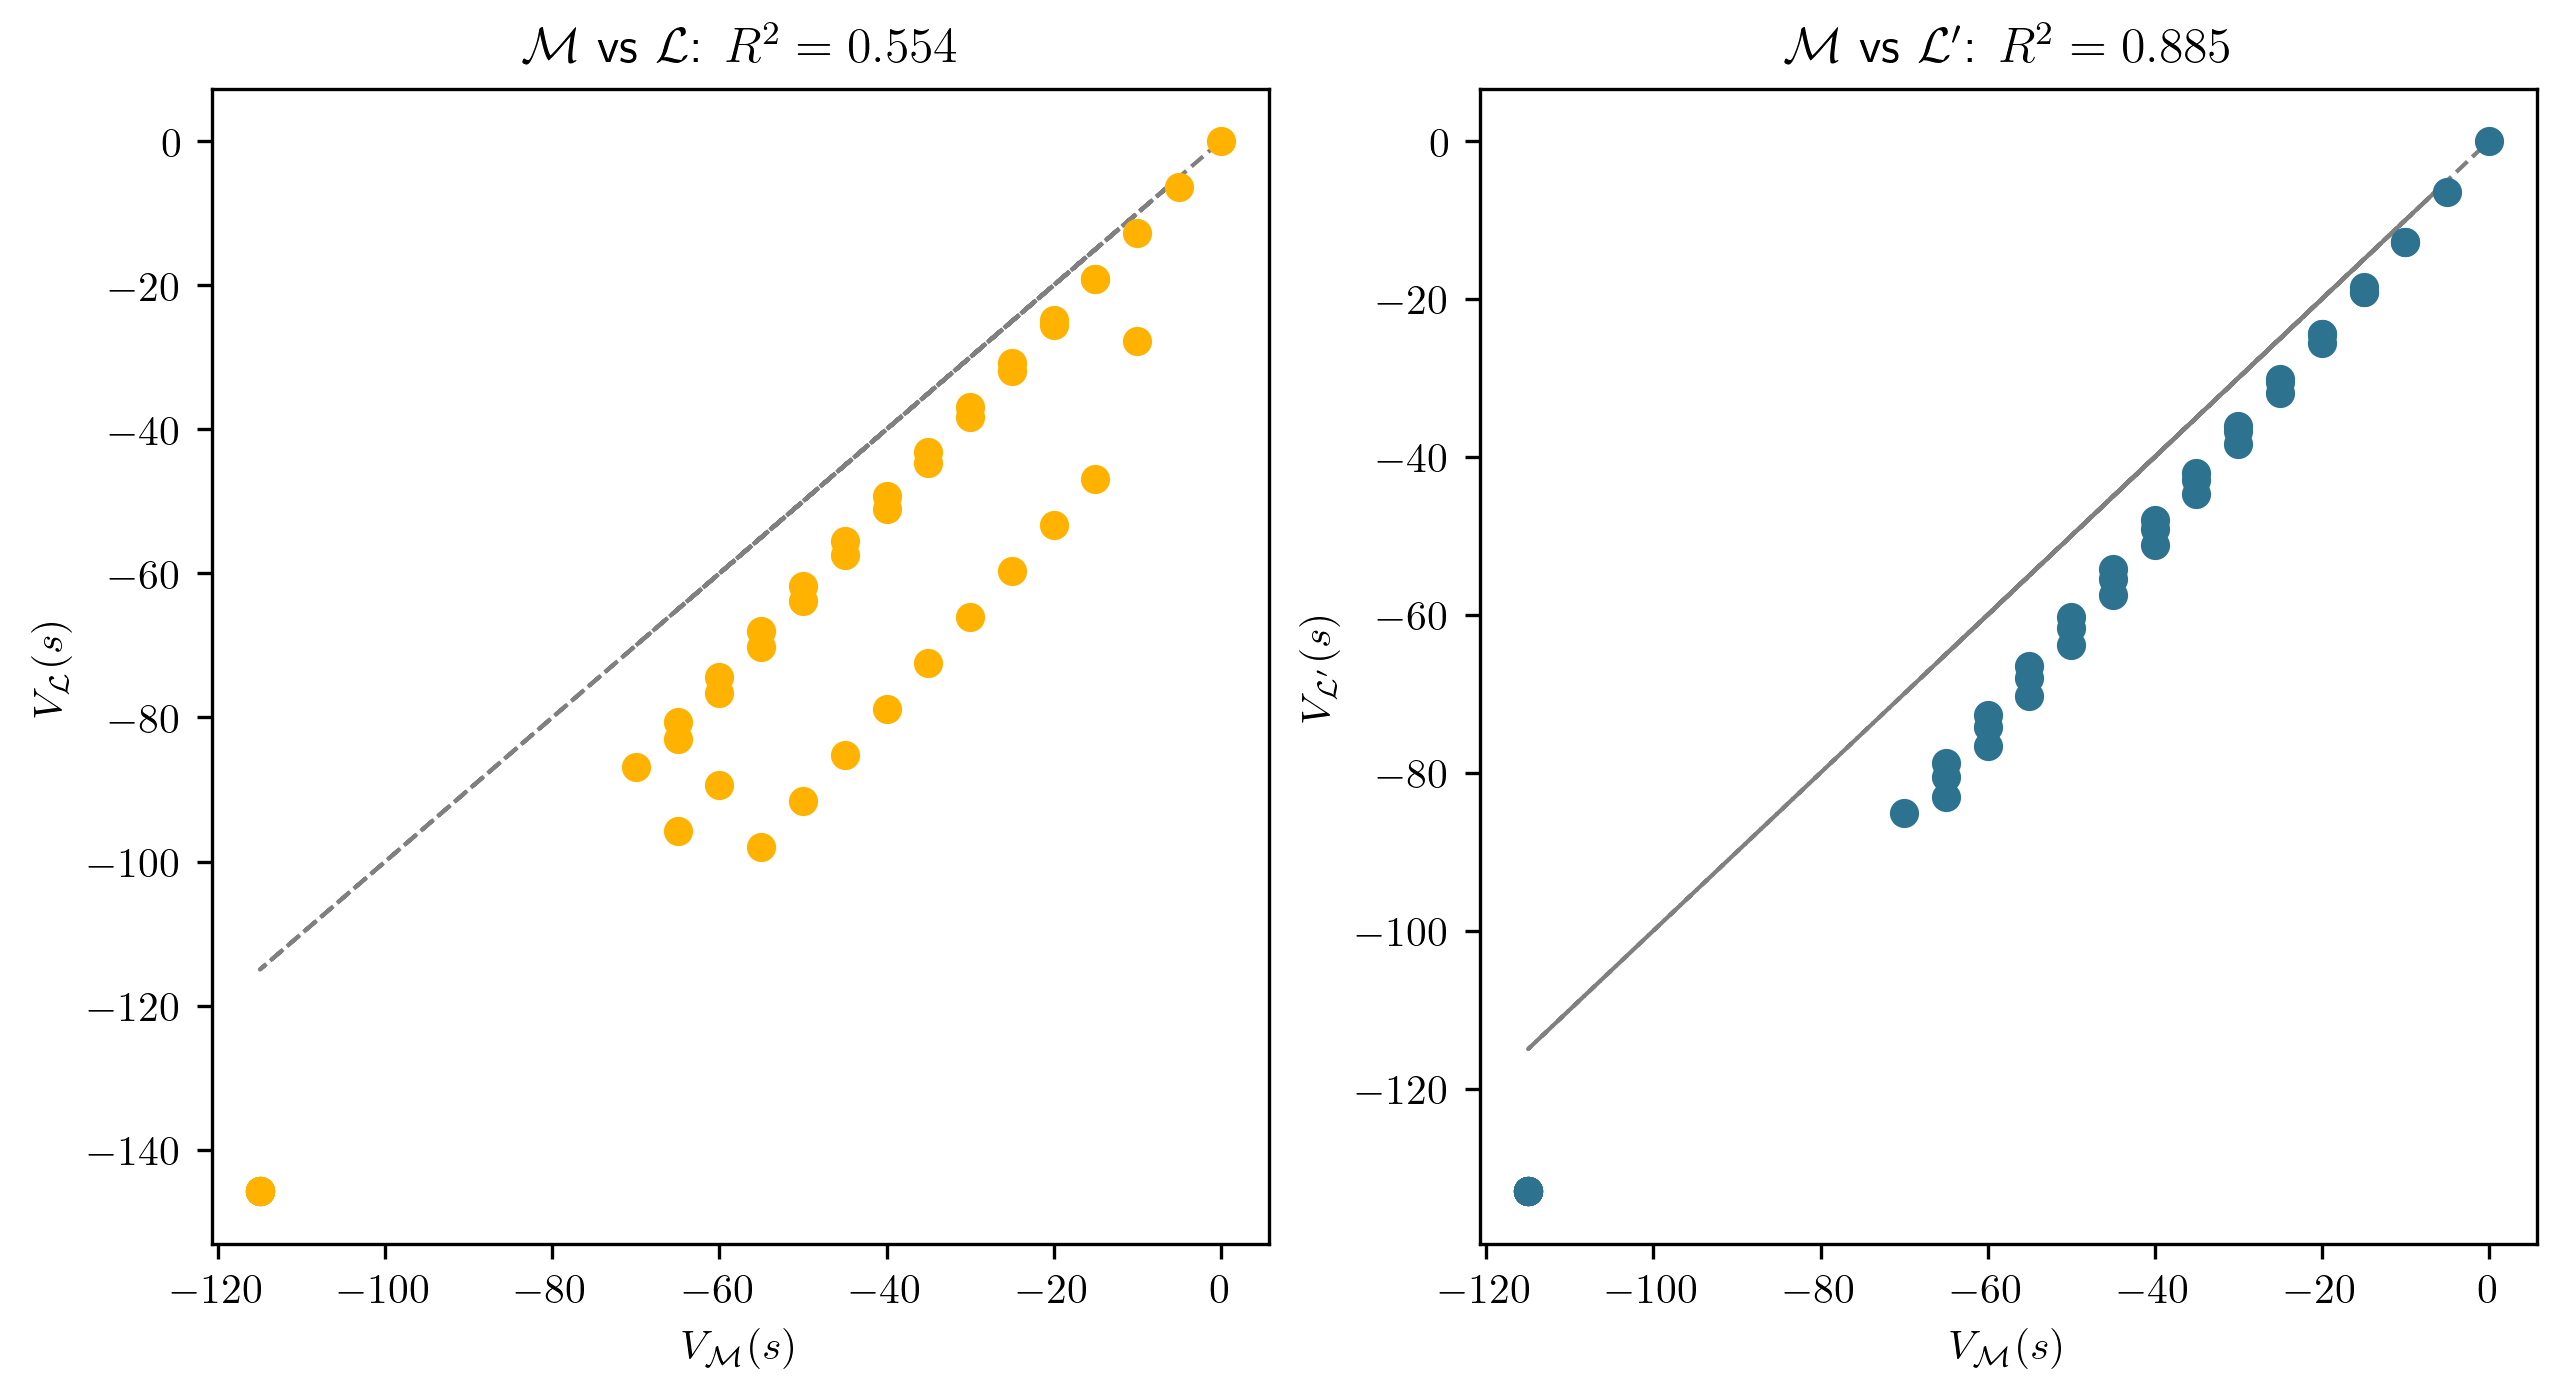
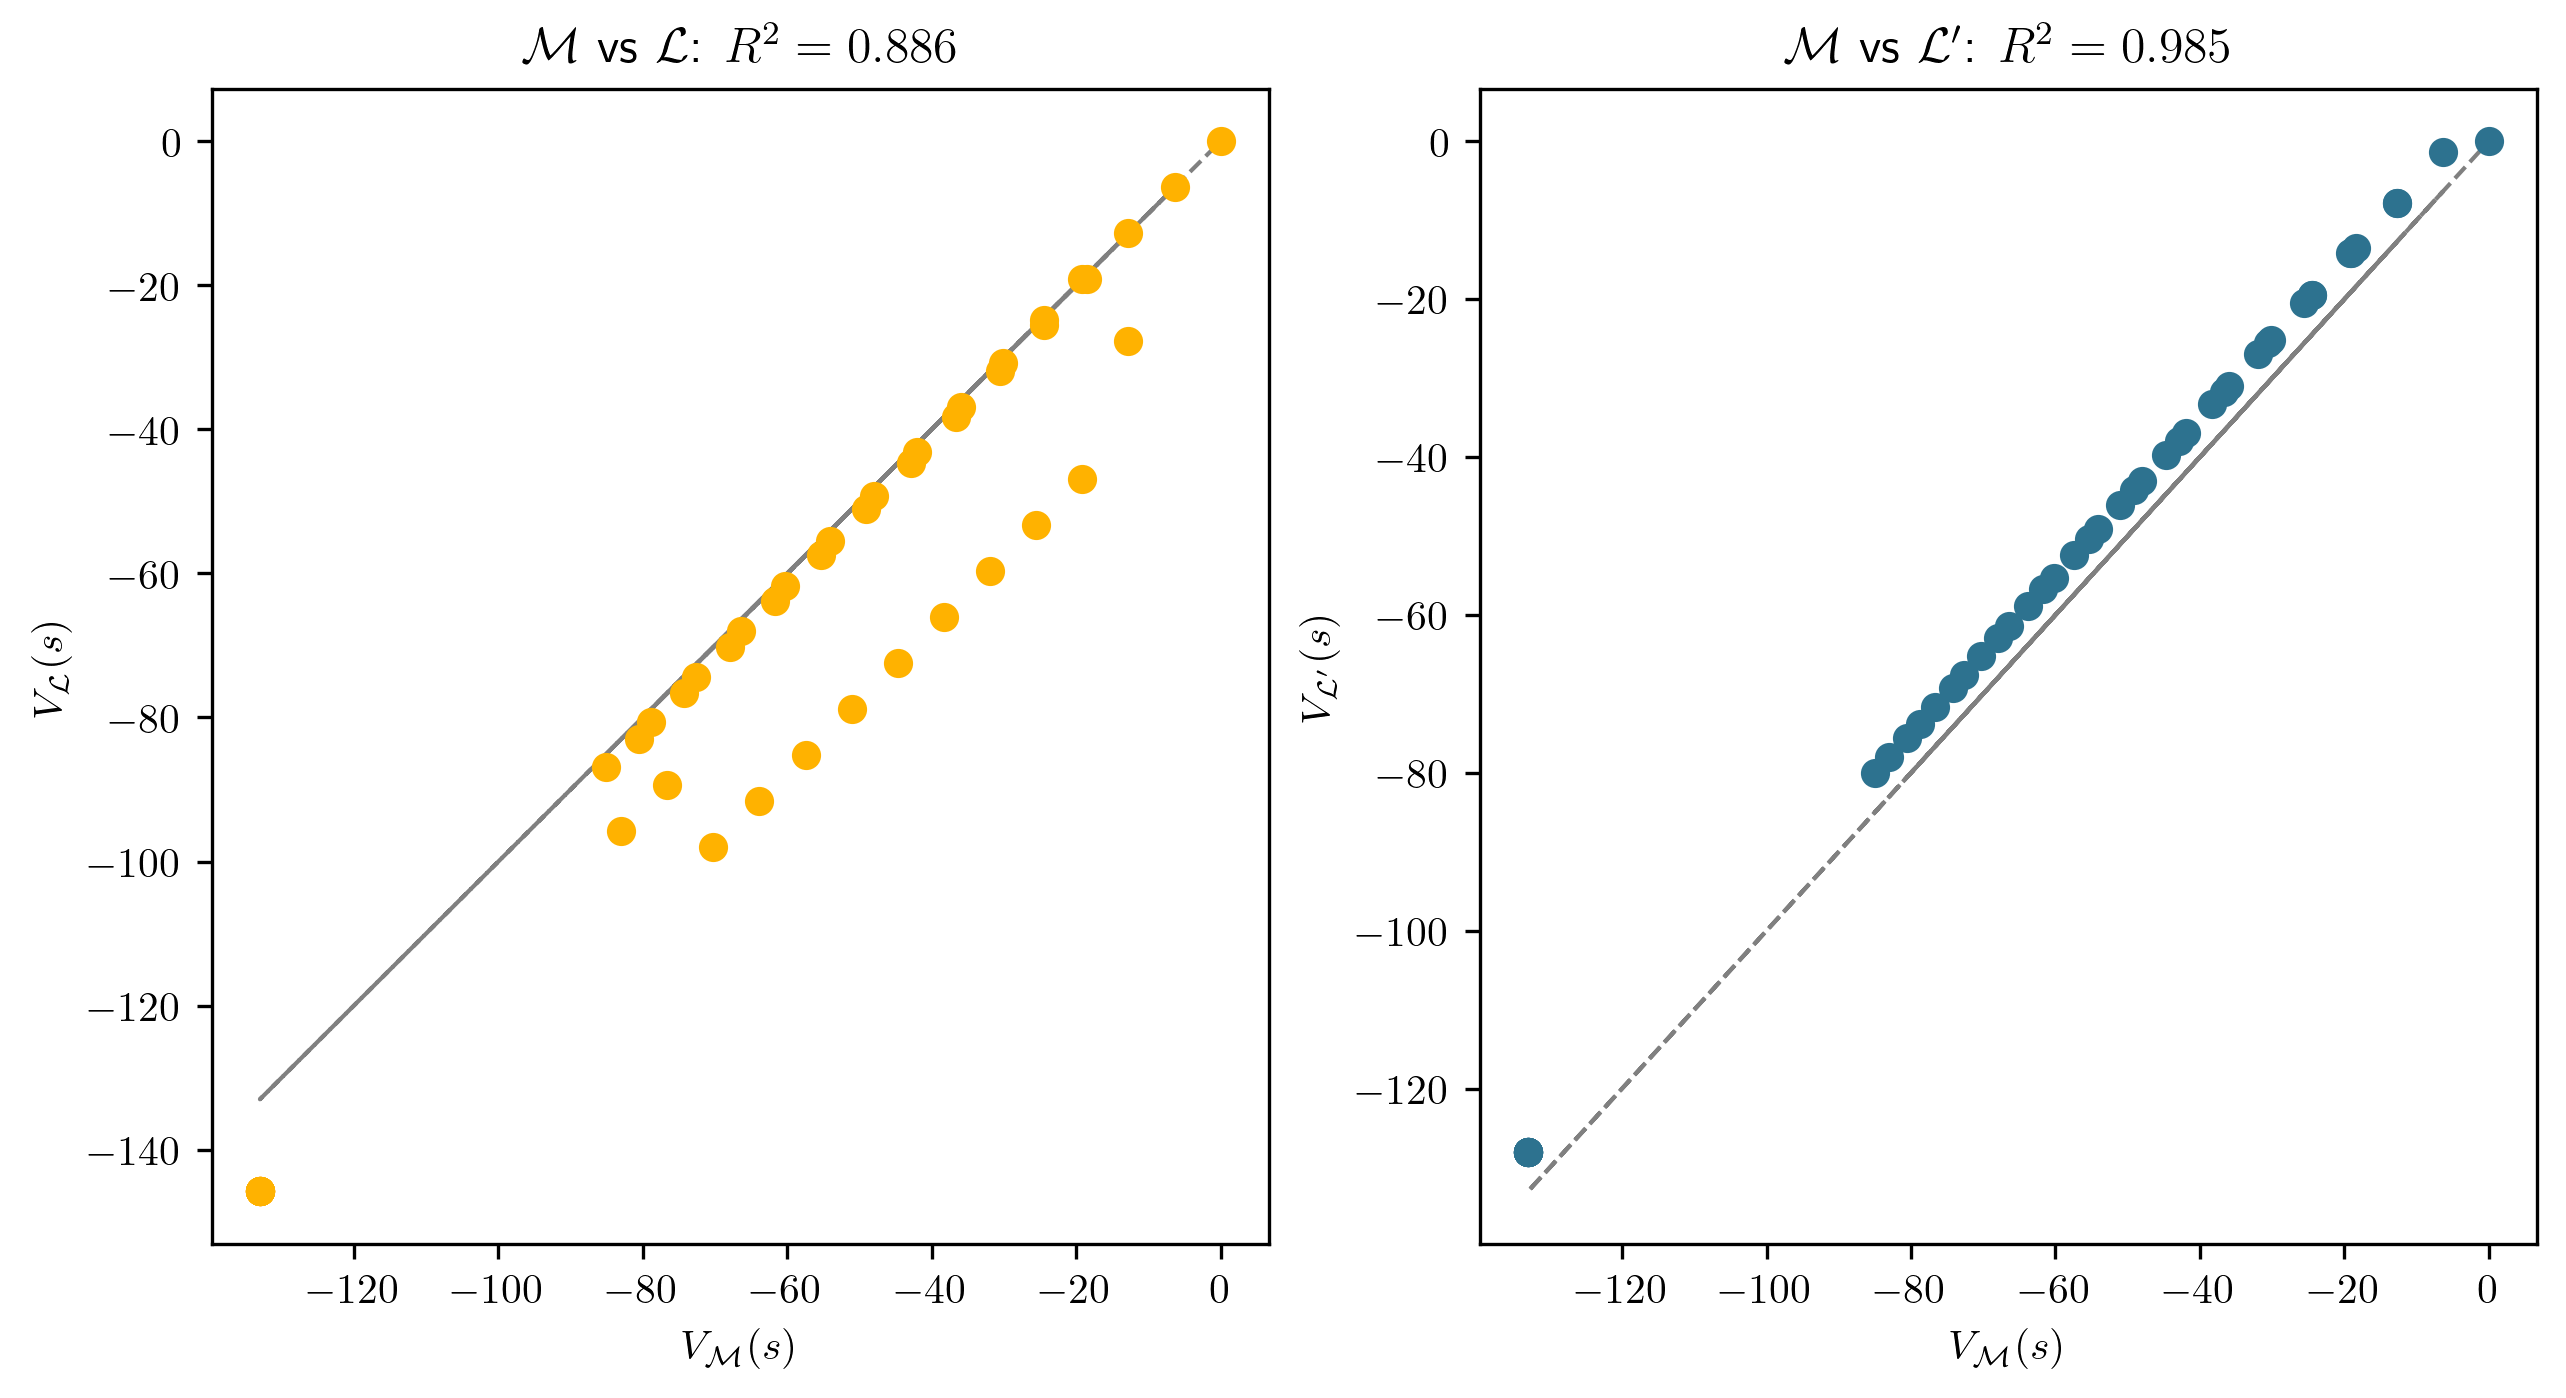
Changed lmdp_tdr_advantage to acount for entropy in mdp
Solved probability coloring problem with __plot_grid_overlays

diff --git a/domains/grid_world.py b/domains/grid_world.py
@@ -1073,7 +1073,7 @@ class GridWorldPlotter:
                         ax.add_patch(triangle)
                     if show_prob:
                         ax.text(np.mean([p[0] for p in q_vertices]), np.mean([p[1] for p in q_vertices]), f"{prob:.2f}",
-                                color="white" if self.gridworld.V[idx] > 0.3 * np.min(self.gridworld.V) else "black",
+                                color="white" if (self.gridworld.V[idx] > 0.3 * np.min(self.gridworld.V)) and show_value_function else "black",
                                 fontweight="heavy" if prob == max_prob else None, fontsize=prob_size, ha="center", va="center")
             else:
                 if not show_actions: continue

diff --git a/utils/experiments.py b/utils/experiments.py
@@ -180,7 +180,8 @@ def lmdp_tdr_advantage(save_fig: bool = True):
     map = Maps.CLIFF_WALKING
     mdp = GridWorldMDP(
         map=map,
-        behaviour="deterministic"
+        behaviour="deterministic",
+        temperature=1
     )
     lmdp = GridWorldLMDP(
         map=map,

diff --git a/main.py b/main.py
@@ -141,4 +141,4 @@ def explore_temperature(map: Map, mdp_temperature: float, probs: list[float], sa
 
 if __name__ == "__main__":
     
-    benchmark_value_iteration()
+    lmdp_tdr_advantage(save_fig=False)
